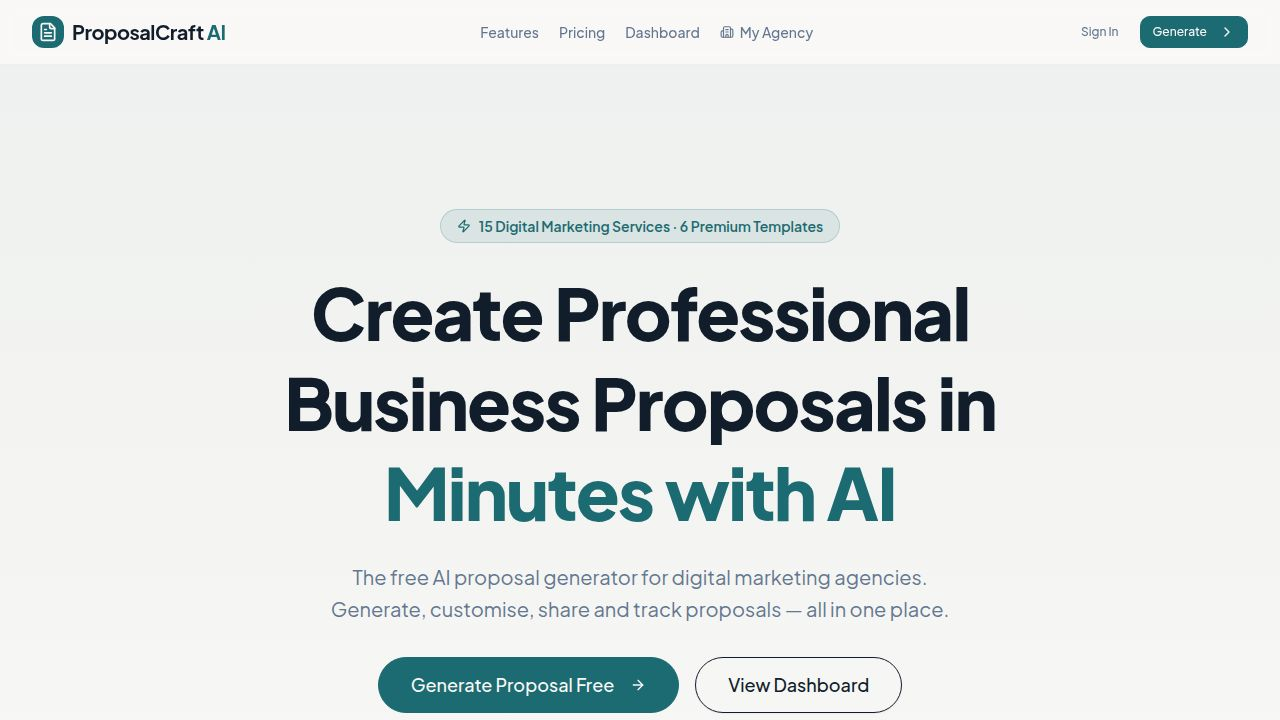
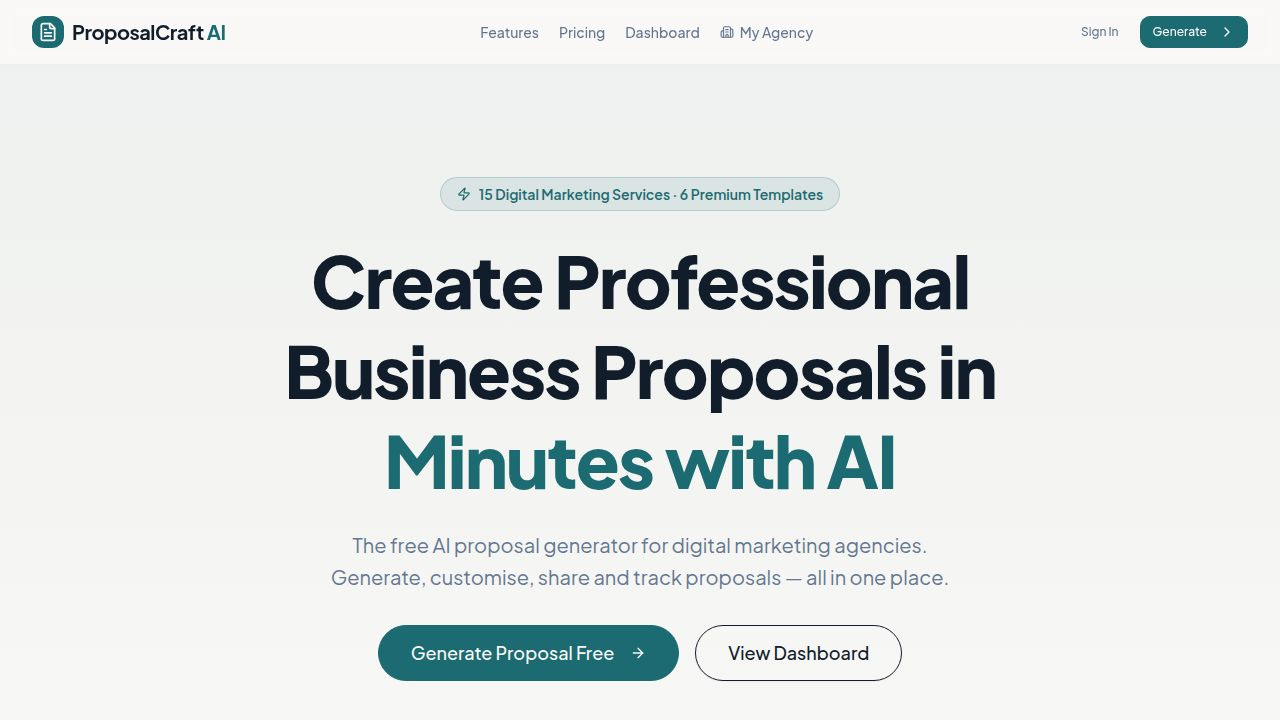
Add industry and currency options to the proposal generation form
Update generate page with new industry and currency dropdowns, and adjust spacing and remove hero section slider in home page.

Replit-Commit-Author: Agent
Replit-Commit-Session-Id: 4b9294cf-09f5-4340-8da2-836519e582fe
Replit-Commit-Checkpoint-Type: full_checkpoint
Replit-Commit-Event-Id: 9ebd0758-0935-40ff-abbb-24826820ebcf
Replit-Commit-Screenshot-Url: https://storage.googleapis.com/screenshot-production-us-central1/69449c33-cf09-4f99-a3f4-38f946d2f6c8/4b9294cf-09f5-4340-8da2-836519e582fe/335ahhR
Replit-Helium-Checkpoint-Created: true

diff --git a/artifacts/proposal-craft/src/pages/generate.tsx b/artifacts/proposal-craft/src/pages/generate.tsx
@@ -33,6 +33,68 @@ const LANGUAGES = [
   "Dutch", "Japanese", "Chinese", "Arabic", "Hindi", "Russian"
 ];
 
+const INDUSTRIES = [
+  "Technology & Software",
+  "E-Commerce & Retail",
+  "Healthcare & Medical",
+  "Real Estate & Property",
+  "Finance & Banking",
+  "Education & E-Learning",
+  "Hospitality & Tourism",
+  "Food & Beverage",
+  "Automotive",
+  "Fashion & Apparel",
+  "Beauty & Wellness",
+  "Legal & Professional Services",
+  "Construction & Architecture",
+  "Manufacturing & Industrial",
+  "Non-Profit & NGO",
+  "Entertainment & Media",
+  "Sports & Fitness",
+  "Agriculture & Farming",
+  "Energy & Environment",
+  "Logistics & Supply Chain",
+  "B2B SaaS",
+  "Government & Public Sector",
+  "Telecommunications",
+  "Insurance",
+  "Travel & Aviation",
+  "Other",
+];
+
+const CURRENCIES = [
+  { code: "USD", symbol: "$", name: "US Dollar" },
+  { code: "EUR", symbol: "€", name: "Euro" },
+  { code: "GBP", symbol: "£", name: "British Pound" },
+  { code: "INR", symbol: "₹", name: "Indian Rupee" },
+  { code: "AED", symbol: "د.إ", name: "UAE Dirham" },
+  { code: "AUD", symbol: "A$", name: "Australian Dollar" },
+  { code: "CAD", symbol: "C$", name: "Canadian Dollar" },
+  { code: "SGD", symbol: "S$", name: "Singapore Dollar" },
+  { code: "JPY", symbol: "¥", name: "Japanese Yen" },
+  { code: "BRL", symbol: "R$", name: "Brazilian Real" },
+  { code: "MXN", symbol: "$", name: "Mexican Peso" },
+  { code: "ZAR", symbol: "R", name: "South African Rand" },
+  { code: "CHF", symbol: "Fr", name: "Swiss Franc" },
+  { code: "HKD", symbol: "HK$", name: "Hong Kong Dollar" },
+  { code: "SAR", symbol: "﷼", name: "Saudi Riyal" },
+  { code: "PKR", symbol: "₨", name: "Pakistani Rupee" },
+  { code: "NGN", symbol: "₦", name: "Nigerian Naira" },
+  { code: "EGP", symbol: "£", name: "Egyptian Pound" },
+  { code: "KES", symbol: "KSh", name: "Kenyan Shilling" },
+  { code: "TRY", symbol: "₺", name: "Turkish Lira" },
+  { code: "SEK", symbol: "kr", name: "Swedish Krona" },
+  { code: "NOK", symbol: "kr", name: "Norwegian Krone" },
+  { code: "DKK", symbol: "kr", name: "Danish Krone" },
+  { code: "THB", symbol: "฿", name: "Thai Baht" },
+  { code: "MYR", symbol: "RM", name: "Malaysian Ringgit" },
+  { code: "IDR", symbol: "Rp", name: "Indonesian Rupiah" },
+  { code: "PHP", symbol: "₱", name: "Philippine Peso" },
+  { code: "NZD", symbol: "NZ$", name: "New Zealand Dollar" },
+  { code: "BDT", symbol: "৳", name: "Bangladeshi Taka" },
+  { code: "LKR", symbol: "₨", name: "Sri Lankan Rupee" },
+];
+
 const formSchema = z.object({
   serviceType: z.enum(ALL_SERVICE_IDS),
   agencyName: z.string().min(2, "Agency name is required"),
@@ -42,6 +104,7 @@ const formSchema = z.object({
   clientCompany: z.string().min(2, "Company name is required"),
   clientIndustry: z.string().optional(),
   clientGoals: z.string().min(10, "Please describe the client's goals"),
+  currency: z.string().optional(),
   budget: z.string().optional(),
   language: z.string().optional(),
   tone: z.enum(["formal", "balanced", "conversational"]).optional(),
@@ -72,6 +135,7 @@ export default function Generate() {
       clientCompany: "",
       clientIndustry: "",
       clientGoals: "",
+      currency: "USD",
       budget: "",
       language: "English",
       tone: "balanced",
@@ -337,20 +401,29 @@ export default function Generate() {
                       <FormField control={form.control} name="clientIndustry" render={({ field }) => (
                         <FormItem>
                           <FormLabel>Industry</FormLabel>
-                          <FormControl><Input placeholder="e.g. Real Estate" {...field} /></FormControl>
+                          <Select onValueChange={field.onChange} defaultValue={field.value}>
+                            <FormControl>
+                              <SelectTrigger><SelectValue placeholder="Select industry" /></SelectTrigger>
+                            </FormControl>
+                            <SelectContent>
+                              {INDUSTRIES.map(ind => (
+                                <SelectItem key={ind} value={ind}>{ind}</SelectItem>
+                              ))}
+                            </SelectContent>
+                          </Select>
                           <FormMessage />
                         </FormItem>
                       )} />
-                      <FormField control={form.control} name="budget" render={({ field }) => (
+                      <FormField control={form.control} name="currency" render={({ field }) => (
                         <FormItem>
-                          <FormLabel>Budget Range</FormLabel>
+                          <FormLabel>Currency</FormLabel>
                           <Select onValueChange={field.onChange} defaultValue={field.value}>
                             <FormControl>
-                              <SelectTrigger><SelectValue placeholder="Select budget" /></SelectTrigger>
+                              <SelectTrigger><SelectValue placeholder="Select currency" /></SelectTrigger>
                             </FormControl>
                             <SelectContent>
-                              {["Under $1,000/month","$1,000–$2,500/month","$2,500–$5,000/month","$5,000–$10,000/month","$10,000+/month"].map(b => (
-                                <SelectItem key={b} value={b}>{b}</SelectItem>
+                              {CURRENCIES.map(c => (
+                                <SelectItem key={c.code} value={c.code}>{c.symbol} {c.code} — {c.name}</SelectItem>
                               ))}
                             </SelectContent>
                           </Select>
@@ -358,6 +431,34 @@ export default function Generate() {
                         </FormItem>
                       )} />
                     </div>
+                    <FormField control={form.control} name="budget" render={({ field }) => {
+                      const selectedCurrency = form.watch("currency") || "USD";
+                      const curr = CURRENCIES.find(c => c.code === selectedCurrency) || CURRENCIES[0];
+                      const sym = curr.symbol;
+                      const budgetOptions = [
+                        `Under ${sym}1,000/month`,
+                        `${sym}1,000–${sym}2,500/month`,
+                        `${sym}2,500–${sym}5,000/month`,
+                        `${sym}5,000–${sym}10,000/month`,
+                        `${sym}10,000+/month`,
+                      ];
+                      return (
+                        <FormItem>
+                          <FormLabel>Budget Range</FormLabel>
+                          <Select onValueChange={field.onChange} value={field.value}>
+                            <FormControl>
+                              <SelectTrigger><SelectValue placeholder="Select budget" /></SelectTrigger>
+                            </FormControl>
+                            <SelectContent>
+                              {budgetOptions.map(b => (
+                                <SelectItem key={b} value={b}>{b}</SelectItem>
+                              ))}
+                            </SelectContent>
+                          </Select>
+                          <FormMessage />
+                        </FormItem>
+                      );
+                    }} />
                     <FormField control={form.control} name="clientGoals" render={({ field }) => (
                       <FormItem>
                         <FormLabel>Client Goals & Description <span className="text-destructive">*</span></FormLabel>

diff --git a/artifacts/proposal-craft/src/pages/home.tsx b/artifacts/proposal-craft/src/pages/home.tsx
@@ -174,7 +174,7 @@ export default function Home() {
   return (
     <Layout>
       {/* Hero */}
-      <section className="relative overflow-hidden pt-20 pb-14 sm:pt-28 sm:pb-20 md:pt-36 md:pb-28 bg-gradient-to-b from-primary/5 to-background">
+      <section className="relative overflow-hidden pt-16 pb-10 sm:pt-24 sm:pb-14 md:pt-28 md:pb-16 bg-gradient-to-b from-primary/5 to-background">
         <div className="container mx-auto px-4 sm:px-6 lg:px-8 relative z-10 text-center">
           <motion.div initial={{ opacity: 0, y: 20 }} animate={{ opacity: 1, y: 0 }} transition={{ duration: 0.5 }}>
             <div className="inline-flex items-center gap-2 bg-primary/10 text-primary text-xs sm:text-sm font-semibold px-4 py-1.5 rounded-full mb-6 border border-primary/20">
@@ -212,24 +212,10 @@ export default function Home() {
         </div>
       </section>
 
-      {/* Service pills scrollbar */}
-      <section className="py-6 border-b border-border bg-muted/30">
-        <div className="container mx-auto px-4">
-          <div className="flex overflow-x-auto pb-2 -mb-2 hide-scrollbar gap-2 snap-x">
-            {SERVICES.map((s, i) => (
-              <div key={i} className={`snap-center whitespace-nowrap px-4 py-2 rounded-full ${s.bg} ${s.border} border text-xs font-semibold ${s.color} flex-shrink-0 flex items-center gap-1.5`}>
-                <span className="h-3.5 w-3.5 inline-flex">{s.icon}</span>
-                {s.title}
-              </div>
-            ))}
-          </div>
-        </div>
-      </section>
-
       {/* How It Works */}
-      <section id="how-it-works" className="py-16 sm:py-24 md:py-32 bg-background">
+      <section id="how-it-works" className="py-10 sm:py-16 bg-background">
         <div className="container mx-auto px-4 sm:px-6 lg:px-8">
-          <div className="text-center mb-12 sm:mb-16">
+          <div className="text-center mb-8 sm:mb-10">
             <h2 className="text-2xl sm:text-3xl md:text-4xl font-bold tracking-tight">How It Works</h2>
             <p className="mt-4 text-base sm:text-lg text-muted-foreground">Four simple steps to a winning proposal.</p>
           </div>
@@ -253,9 +239,9 @@ export default function Home() {
       </section>
 
       {/* Services Grid */}
-      <section className="py-16 sm:py-24 md:py-32 bg-muted/30">
+      <section className="py-10 sm:py-16 bg-muted/30">
         <div className="container mx-auto px-4 sm:px-6 lg:px-8">
-          <div className="text-center mb-12 sm:mb-16">
+          <div className="text-center mb-8 sm:mb-10">
             <h2 className="text-2xl sm:text-3xl md:text-4xl font-bold tracking-tight">15 Supported Service Types</h2>
             <p className="mt-4 text-base sm:text-lg text-muted-foreground">Tailored AI proposals for every digital marketing discipline.</p>
           </div>
@@ -278,9 +264,9 @@ export default function Home() {
       </section>
 
       {/* Template Showcase — REAL previews */}
-      <section className="py-16 sm:py-24 md:py-32 bg-background">
+      <section className="py-10 sm:py-16 bg-background">
         <div className="container mx-auto px-4 sm:px-6 lg:px-8">
-          <div className="text-center mb-12 sm:mb-16">
+          <div className="text-center mb-8 sm:mb-10">
             <h2 className="text-2xl sm:text-3xl md:text-4xl font-bold tracking-tight">6 Professional Templates</h2>
             <p className="mt-4 text-base sm:text-lg text-muted-foreground">Make the right impression with agency-grade designs.</p>
           </div>
@@ -330,9 +316,9 @@ export default function Home() {
       </section>
 
       {/* Features Grid */}
-      <section id="features" className="py-16 sm:py-24 md:py-32 bg-muted/30">
+      <section id="features" className="py-10 sm:py-16 bg-muted/30">
         <div className="container mx-auto px-4 sm:px-6 lg:px-8">
-          <div className="text-center mb-12 sm:mb-16">
+          <div className="text-center mb-8 sm:mb-10">
             <h2 className="text-2xl sm:text-3xl md:text-4xl font-bold tracking-tight">Everything You Need</h2>
             <p className="mt-4 text-base sm:text-lg text-muted-foreground">Powerful features to help you close more deals faster.</p>
           </div>
@@ -366,9 +352,9 @@ export default function Home() {
       </section>
 
       {/* WHY US — Comparison Table */}
-      <section className="py-16 sm:py-24 md:py-32 bg-background">
+      <section className="py-10 sm:py-16 bg-background">
         <div className="container mx-auto px-4 sm:px-6 lg:px-8">
-          <div className="text-center mb-12 sm:mb-16">
+          <div className="text-center mb-8 sm:mb-10">
             <div className="inline-flex items-center gap-2 bg-green-100 text-green-700 text-xs sm:text-sm font-semibold px-4 py-1.5 rounded-full mb-4 border border-green-200">
               <Check className="h-3.5 w-3.5" /> Why Choose ProposalCraft?
             </div>
@@ -420,7 +406,7 @@ export default function Home() {
       </section>
 
       {/* Pricing */}
-      <section id="pricing" className="py-16 sm:py-24 md:py-32 bg-muted/30">
+      <section id="pricing" className="py-10 sm:py-16 bg-muted/30">
         <div className="container mx-auto px-4 sm:px-6 lg:px-8">
           <div className="text-center mb-10 sm:mb-12">
             <h2 className="text-2xl sm:text-3xl md:text-4xl font-bold tracking-tight">Simple, Transparent Pricing</h2>
@@ -493,9 +479,9 @@ export default function Home() {
       </section>
 
       {/* Testimonials */}
-      <section className="py-16 sm:py-24 md:py-32 bg-background overflow-hidden">
+      <section className="py-10 sm:py-16 bg-background overflow-hidden">
         <div className="container mx-auto px-4 sm:px-6 lg:px-8">
-          <div className="text-center mb-12 sm:mb-16">
+          <div className="text-center mb-8 sm:mb-10">
             <h2 className="text-2xl sm:text-3xl md:text-4xl font-bold tracking-tight">Trusted by Professionals</h2>
             <p className="mt-4 text-base sm:text-lg text-muted-foreground">Hear what marketing agencies are saying.</p>
           </div>
@@ -542,7 +528,7 @@ export default function Home() {
       </section>
 
       {/* FAQ */}
-      <section className="py-16 sm:py-24 md:py-32 bg-muted/30 border-t border-border">
+      <section className="py-10 sm:py-16 bg-muted/30 border-t border-border">
         <div className="container mx-auto px-4 sm:px-6 lg:px-8 max-w-3xl">
           <div className="text-center mb-10 sm:mb-12">
             <h2 className="text-2xl sm:text-3xl font-bold tracking-tight">Frequently Asked Questions</h2>
